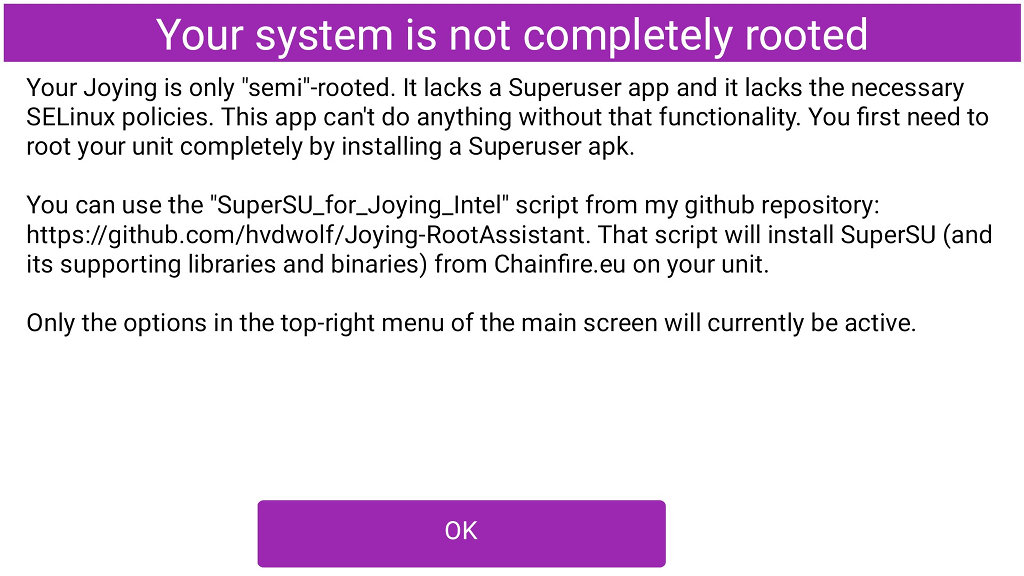
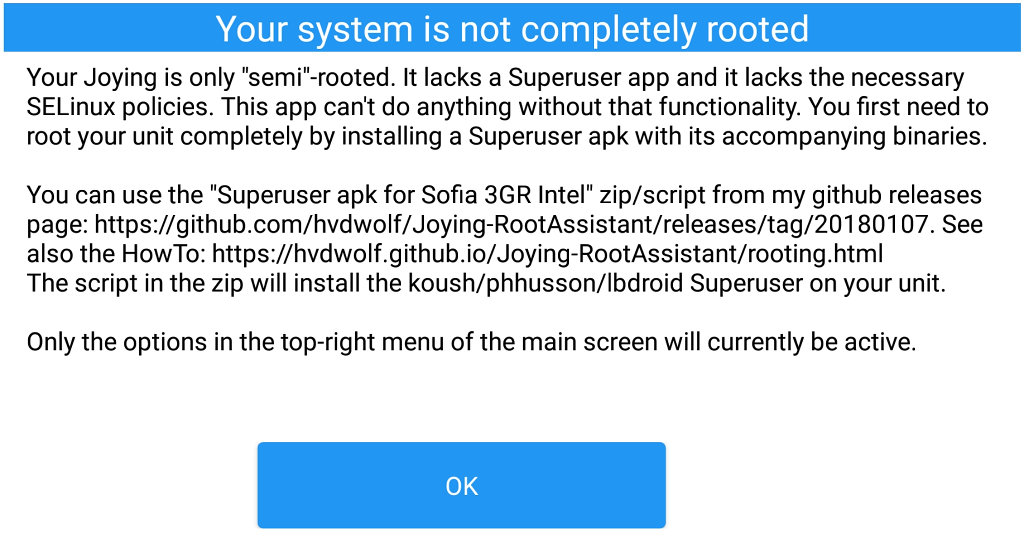
new rooting page

diff --git a/rooting.html b/rooting.html
@@ -28,10 +28,9 @@
 
 
         <center><H2>Root your unit</H2></center>
-        <center><H2><p style="color:red">************************************************************************************************<br>
-            Will be replaced by another rooting method to enable Xposed on our Joyings<br>
-            I also removed my "Root your unit zip/script. The uninstaller (for the current one) <br>and new installer will be available soon."
-            ************************************************************************************************</p></H2></center>
+        <center><H3><p style="color:red">****************************************************************************************************************************<br>
+            For regular visitors: I changed to another rooting method as the "new" rooting method allows for the installation of the Xposed framework. I switched from Chainfire's SuperSU to the "Koush / phhusson / lbdroid" Superuser version. If you have SuperSU installed, you should first uninstall it.<br>
+            ****************************************************************************************************************************</p></H3></center>
         
         <p>On Android 6.0.1 this requires 2 steps:
             <ul>
@@ -39,7 +38,7 @@
                 <li>And then you need to do the rooting itself from your pc/laptop.</li>
             </ul>
             On Android 5.1.1 you only need to do the rooting part on the laptop/pc.</p>
-            <p><strong>Note:</strong> If your wireless network has a 2.4GHz and a 5GHz network, make sure  you are on the 2.4GHz. Your unit only works on 2.4GHz and from experience I know that when your pc/laptop is on 5GHz, you often can't connect, or you get a message like "device off-line"</p>
+            <p><strong>Note:</strong> If your wireless network has a 2.4GHz and a 5GHz network, make sure  you are on the 2.4GHz. Your unit only works on 2.4GHz and from experience I know that when your pc/laptop is on 5GHz, you often can't connect, or you get a message like "device off-line" (even though this is technically complete nonsense. Your router should route fine between 2.4GHz and 5GHz.)</p>
         <p><H2>On your head unit</H2>
             <OL>
                 <li>If you do not have it already, you should download my apk from the <a href="https://github.com/hvdwolf/Joying-RootAssistant/releases" target="rooting">Releases</a> page onto your head unit.<br>When you start the apk you will see the following screen:<br><br>
@@ -59,21 +58,21 @@
             <Strong>Linux only:</Strong> First install adb via your package manager (like on Ubuntu/Debian like distributions: "sudo apt-get install adb")<br><br>
             <strong>Steps:</strong>
             <OL>
-                <li>Download the latest SuperSU version from the <a href="https://github.com/hvdwolf/Joying-RootAssistant/releases/tag/20170617-02">Releases</a> page onto your pc/laptop. It will be called something like <strong>SuperSU V x.yz</strong>.</li>
-                <li>Unzip it somewhere on your pc/laptop <strong>and keep the internal folder structure intact</strong>, so not all files in one folder but with sub-folders.</li>
+                <li>Download the Superuser install script from the <a href="https://github.com/hvdwolf/Joying-RootAssistant/releases/tag/20180107">Releases</a> page onto your pc/laptop. It's called <strong>Superuser-Sofia3GR-Intel.zip</strong>. The installation description there is the same as this "On your pc section" that you are currently reading.<br><strong>If you have SuperSU (still) installed, you need to uninstall it first.</strong> See <a href="https://github.com/hvdwolf/Joying-RootAssistant/releases/tag/uninst-20180107">this uninstall description and uninstall script.</a></li>
+                <li>Unzip the Superuser-Sofia3GR-Intel.zip somewhere on your pc/laptop.</li>
                 <UL>
                     <li>On Windows: Run CMD.exe as Administrator.</li>
                     <li>On Linux like OSes: Open a terminal.</li>
                 </UL>
-                <li>Change to the folder where you unzipped the files and change to the folder where the copy_install.sh and copy_install.bat are located.</li>
+                <li>Change to the folder where you unzipped the files and change to the folder where the install.sh and install.bat are located.</li>
                 <UL>
                     <li>On Windows: Run the copy_install.bat script with the IP address of your Head Unit as a parameter: copy_install.bat 192.168.178.50 (for example)</li>
-                    <li>On linux: Run the copy_install.sh script with the IP address of your Head Unit as a parameter: ./copy_install.sh 192.168.178.50 (for example)</li>
+                    <li>On linux: Run the copy_install.sh script with the IP address of your Head Unit as a parameter: ./copy_install.sh 192.168.178.50 (for example)<br>(If necessary please do a "chmod +x install.sh" first if your script is not executable.)</li>
                 </UL>
                 <li>Wait until the script finishes.</li>
                 <li>Reboot your Head Unit.</li>
             </OL></p>
-            <p>You should now have the SuperSU application working with modified SELinux policy settings. This will allow you to give other apps root access as well.</p>
+            <p>You should now have the Superuser application working. This will allow you to give other apps root access as well. It also allows you to use my apk to install several mods and the Xposed framework (Version 33 and up).</p>
         </td></tr></table>
 </center>
 </body>
